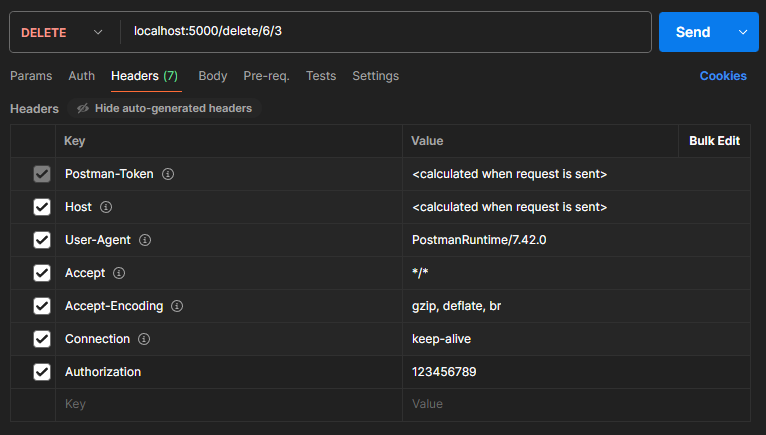
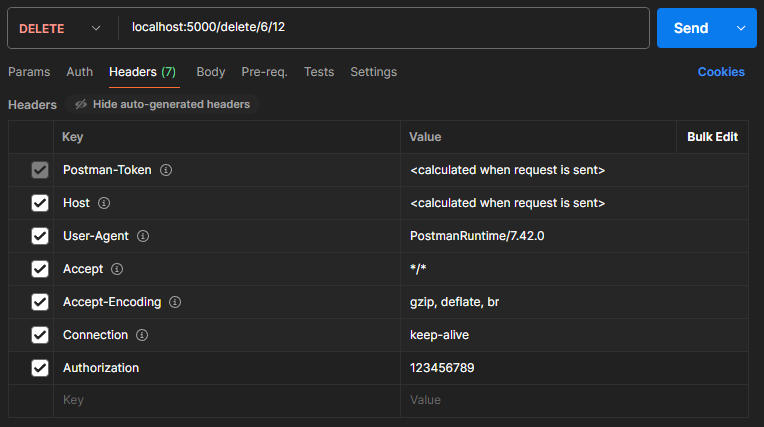
correcciones README.md

diff --git a/README.md b/README.md
@@ -69,8 +69,10 @@ Durante el desarrollo he podido notar que harían falta algunas automatizaciones
 
 A continuación expongo la visualización de la base de datos que se puede encontrar en el archivo: [init_bbdd.sql](Aplicacion/init_bbdd.sql)
 
+Este esquema está disponible en el repositorio: [esquema_reto_geodesic.jpg](sources/esquema_reto_geodesic.jpg)
+
 Las características generales son:
-- 3 instalaciones con varios usuarios
+- 3 instalaciones con varios puntos y varios usuarios
 - Los admin tienen  acceso a todos los puntos de sus instalaciones
 - Existen varios tipos de perfil de acceso
 
@@ -92,6 +94,7 @@ Para mejorar la comprensión de la base de datos utilizada para la validación d
 ## Arquitectura
 
 ### Arquitectura hexagonal
+
 - Dominio
   - modelos.py --> Clases del proyecto (Usuario, etc..)
   - servicios.py --> Casos de uso (Obtener puntos de acceso, obtener ususario...)
@@ -104,58 +107,81 @@ Para mejorar la comprensión de la base de datos utilizada para la validación d
 
 ### Login
 
-- <Rule '/<id_usuario>'>
+- **<Rule '/<id_usuario>'>**
   - Metodo: GET
   - Objetivo: Acceso a los datos de ususario (simulación de la pantalla de inicio)
   - Nota: password en el header mediante el atributo "Authorization"
   - Robusto frente a ID/contraseñas incorrectas
   
   ![Login](sources/login.PNG)
+  - **respuesta:**
+  
+  
+  ![respuesta_login](sources/respuesta_login.PNG)
+
 
 ### Gestión de acceso a puntos
 
-- <Rule '/<id_usuario>/<id_punto>'>
+- **<Rule '/<id_usuario>/<id_punto>'>**
   - Metodo: GET
   - Objetivo: Acceso a un punto
   - Nota: password en el header mediante el atributo "Authorization"
   - Robusto frente a ID/contraseñas incorrectas
   - Robusto frente a puntos incorrectos
 
-  ![Acceso a un punto](sources/acceder_a_punto.PNG)
+  ![Acceso a un punto](sources/acceder_punto.PNG)
 
 
-- <Rule '/add/<id_usuario>/<id_punto>'>
+- **<Rule '/add/<id_usuario>/<id_punto>'>**
   - Metodo: POST
   - Objetivo: Añadir el acceso de un punto al perfil de acceso del usuario
   - Evita duplicaciones en la base de datos
 
   ![Añadir acceso a un punto](sources/añadir_punto.PNG)
 
+  - **Respuesta:**
+  
+   ![respuesta_ñadir acceso a un punto](sources/respuesta_añadir_punto.PNG)
 
-- <Rule '/delete/<id_usuario>/<id_punto>'>
+
+- **<Rule '/delete/<id_usuario>/<id_punto>'>**
   - Metodo: DELETE
   - Objetivo: Eliminar el acceso de un punto al perfil de acceso del usuario
   - Evita duplicaciones en la base de datos
 
   ![Eliminar acceso a un punto](sources/eliminar_punto.PNG)
 
+  - **Respuesta:**
+  
+  ![respuesta_elimnar acceso a un punto](sources/respuesta_eliminar_punto.PNG)
+
+
 
 ### Gestión de usuarios
 
-- <Rule '/delete/<id_usuario>'>
+- **<Rule '/delete/<id_usuario>'>**
   - Metodo: DELETE
   - Objetivo: Eliminar un usuario de la base de datos
   - Evita duplicaciones en la base de datos
 
   ![Eliminar Usuario](sources/eliminar_usuario.PNG)
 
+  - **Respuesta:**
+  
+  ![Respuesta_eliminar punto](sources/respuesta_eliminar_usuario.PNG)
+
 
 ### Log
 
-- <Rule '/log/all'>
+- **<Rule '/log/all'>**
   - Metodo: GET
   - Objetivo: Consultar los accesos a los puntos de la base de datos
 
   ![Log](sources/log.PNG)
+
+  - **Respuesta:**
+  
+  ![Log](sources/respuesta_registros.PNG)
+
 
 
